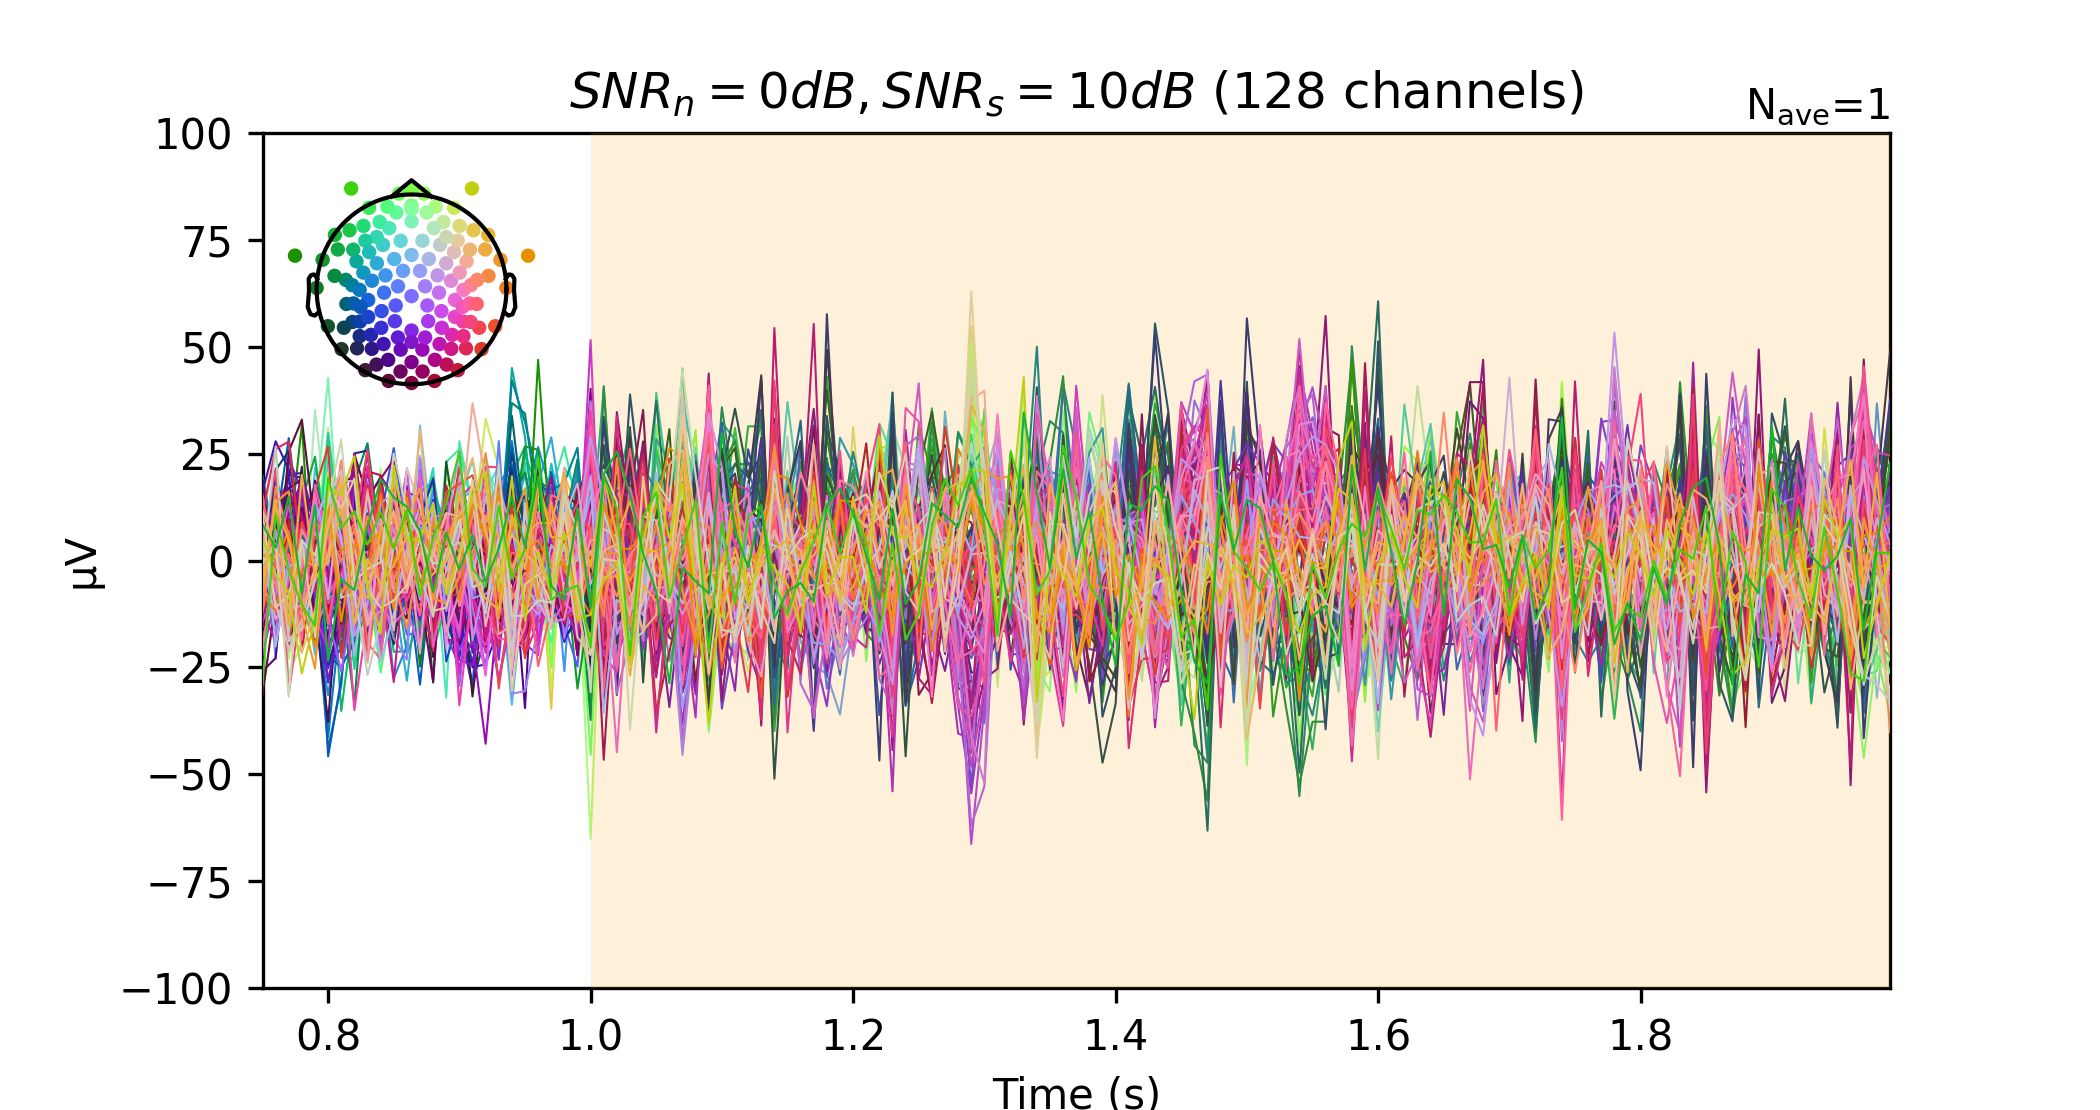
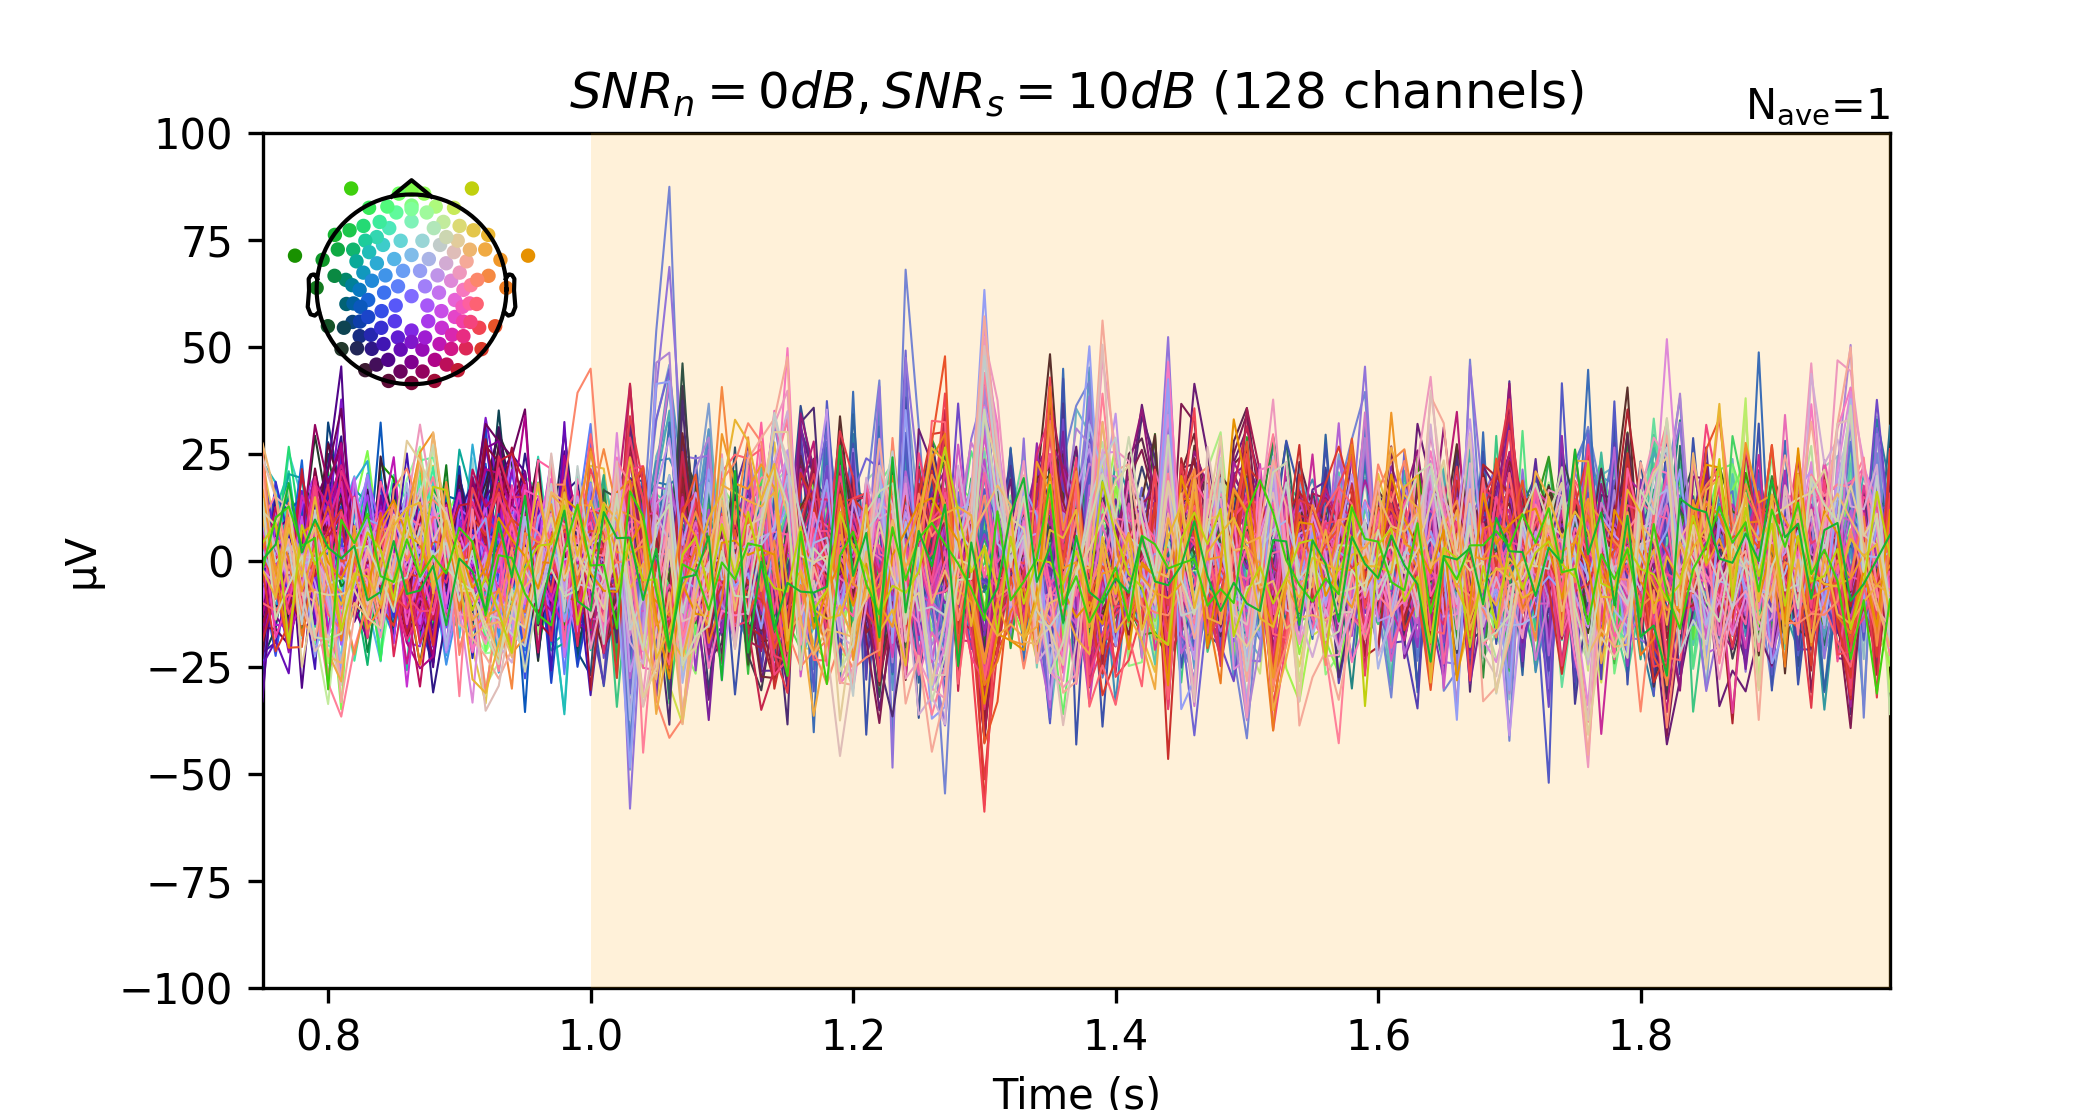
wlist adj

Changed region(s): [[0.1238, 0.245, 0.8976, 0.7351]]

diff --git a/simulation_study.py b/simulation_study.py
@@ -138,6 +138,7 @@ for sim_num in range(10):
             Y = raw._data[:, T:].copy()
 
             # generate epochs
+            # our AR process has no intercept, thus the mean of the data is zero
             epochs = mne.Epochs(raw, np.array([[0,0,0]]), event_id={'signal start':0}, baseline=None,
                 tmin=-0, tmax=1.99, preload=True)
 
@@ -248,7 +249,7 @@ for sim_num in range(10):
 
                         # calculate the debiased X with set A been I_hat
                         Xout_debias, Xout_debias_rotate, significance_list = \
-                            gl_ADMM_dual_bias_correction(I_hat, Xt_tensor, G_tensor, Y_mat, lambda_i*100, O,wlist = wlist, 
+                            gl_ADMM_dual_bias_correction(I_hat, Xt_tensor, G_tensor, Y_mat, lambda_i*100, O,wlist = 'auto', 
                                                          bias_correction_method = 'joint', clear_not_select=True,
                                                          block_mathod='consecutive', tol = 1e-5,tol_norm=1e-5,
                                                          max_iter = 4000,
@@ -296,7 +297,7 @@ for sim_num in range(10):
                         Xt_tensor = Xt_tensor / Y_mat_adj * G_mat_adj
                         Xout_debias, Xout_debias_rotate, significance_list = \
                             gl_ADMM_dual_bias_correction(estimated_locs_raw, Xt_tensor, G_tensor, Y_mat, lambda_i*100, 
-                                                         O,wlist = wlist, bias_correction_method = 'joint', 
+                                                         O,wlist = 'auto', bias_correction_method = 'joint', 
                                                          clear_not_select=True, block_mathod='consecutive', tol = 1e-5,
                                                          tol_norm=1e-5, max_iter = 4000, varing_rho=True)
                         Xout_debias = Xout_debias * Y_mat_adj / G_mat_adj
